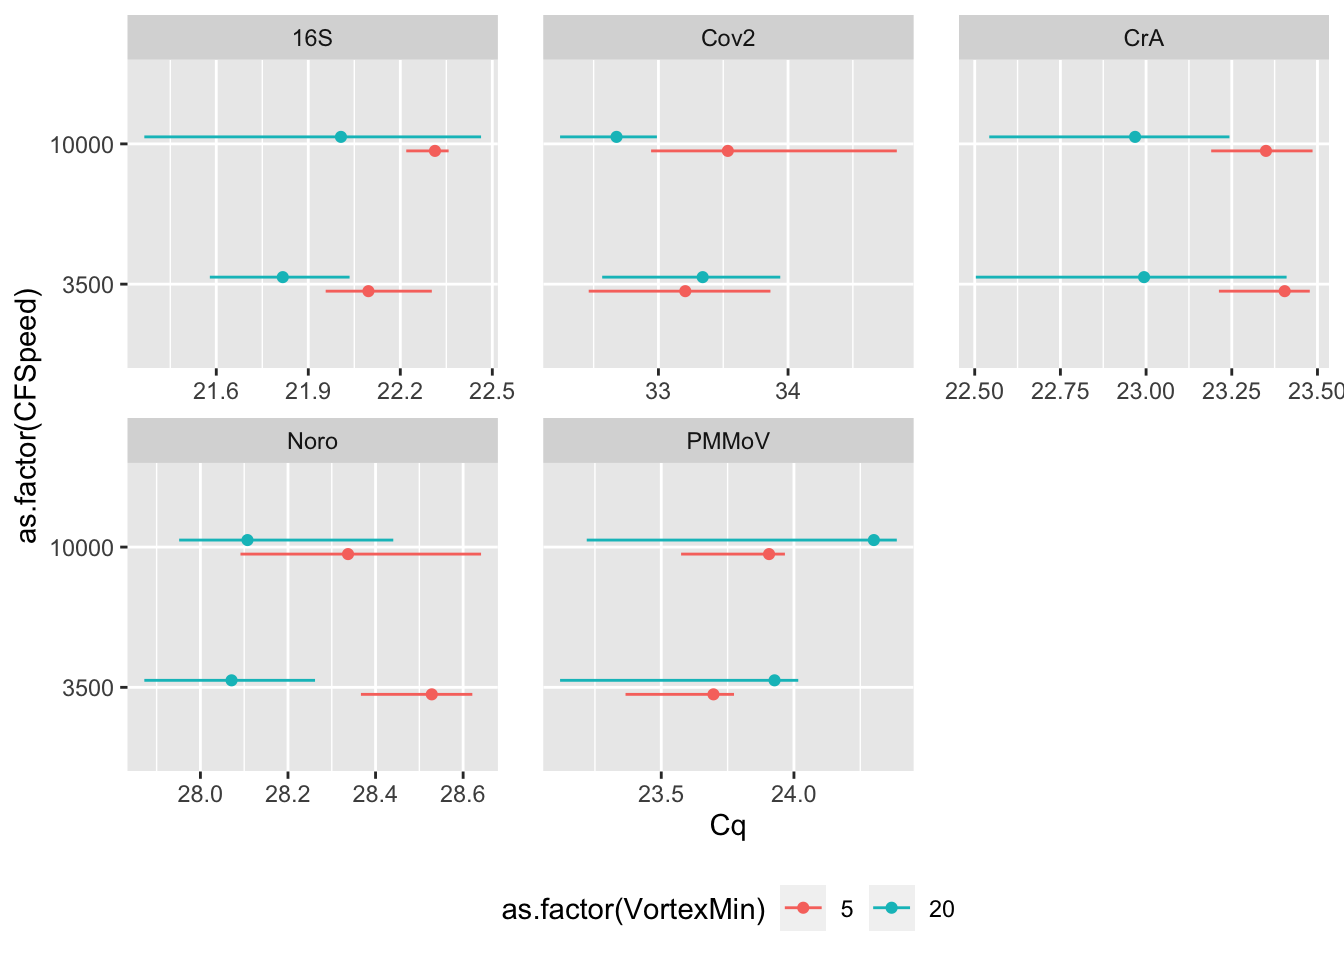
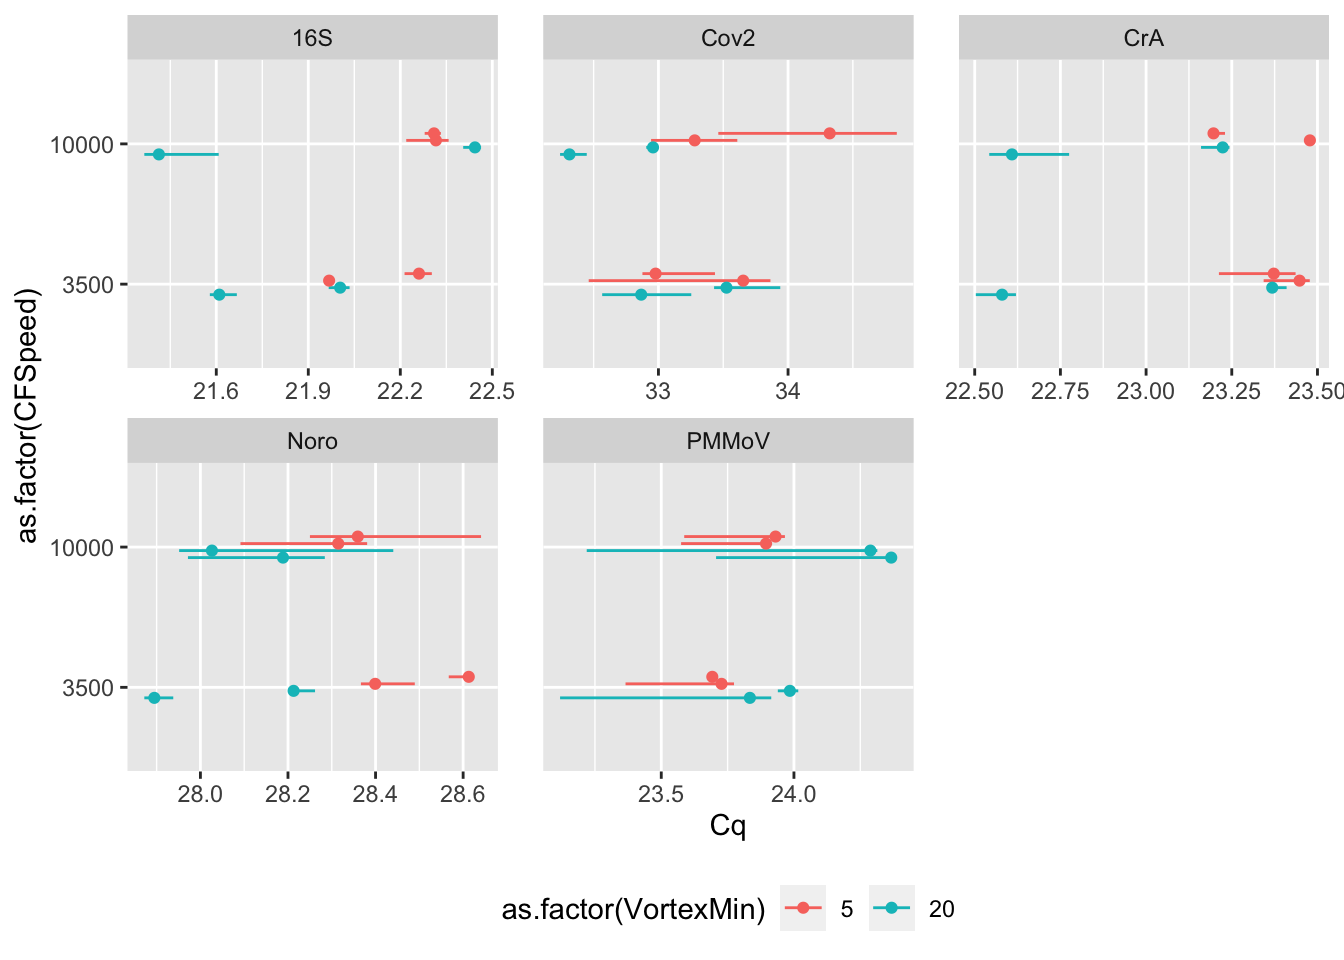
Lint notebook

diff --git a/docs/notebooks/2023-10-16-combined_protocol_experiments.html b/docs/notebooks/2023-10-16-combined_protocol_experiments.html
@@ -7,9 +7,9 @@
 <meta name="viewport" content="width=device-width, initial-scale=1.0, user-scalable=yes">
 
 <meta name="author" content="Dan Rice">
-<meta name="dcterms.date" content="2024-04-11">
+<meta name="dcterms.date" content="2023-10-16">
 
-<title>TK</title>
+<title>2023-10-16 Analysis of recent protocol-comparison experiments</title>
 <style>
 code{white-space: pre-wrap;}
 span.smallcaps{font-variant: small-caps;}
@@ -142,7 +142,7 @@ pre > code.sourceCode > span > a:first-child::before { text-decoration: underlin
 
 <header id="title-block-header" class="quarto-title-block default">
 <div class="quarto-title">
-<h1 class="title">TK</h1>
+<h1 class="title">2023-10-16 Analysis of recent protocol-comparison experiments</h1>
 </div>
 
 
@@ -159,7 +159,7 @@ pre > code.sourceCode > span > a:first-child::before { text-decoration: underlin
     <div>
     <div class="quarto-title-meta-heading">Published</div>
     <div class="quarto-title-meta-contents">
-      <p class="date">April 11, 2024</p>
+      <p class="date">October 16, 2023</p>
     </div>
   </div>
   
@@ -171,7 +171,7 @@ pre > code.sourceCode > span > a:first-child::before { text-decoration: underlin
 
 <section id="objectives" class="level2">
 <h2 class="anchored" data-anchor-id="objectives">Objectives</h2>
-<p>TK</p>
+<p>See <a href="https://twist.com/a/197793/ch/591292/t/5631080/">Twist</a></p>
 </section>
 <section id="preliminary-work" class="level2">
 <h2 class="anchored" data-anchor-id="preliminary-work">Preliminary work</h2>
@@ -217,10 +217,13 @@ Attaching package: 'dplyr'</code></pre>
 <div class="cell">
 <div class="sourceCode cell-code" id="cb9"><pre class="sourceCode r code-with-copy"><code class="sourceCode r"><span id="cb9-1"><a href="#cb9-1" aria-hidden="true" tabindex="-1"></a>data_dir <span class="ot">&lt;-</span> <span class="fu">here</span>(<span class="st">"~"</span>, <span class="st">"airport"</span>)</span>
 <span id="cb9-2"><a href="#cb9-2" aria-hidden="true" tabindex="-1"></a>experiments <span class="ot">&lt;-</span> <span class="fu">c</span>(</span>
-<span id="cb9-3"><a href="#cb9-3" aria-hidden="true" tabindex="-1"></a>  <span class="st">"[2023-10-12] Settled Solids Protocol Development, Vortex Time and Centrifuge Settings"</span>,</span>
-<span id="cb9-4"><a href="#cb9-4" aria-hidden="true" tabindex="-1"></a>  <span class="st">"[2023-10-10] Daily Processing Protocol Testing"</span>,</span>
-<span id="cb9-5"><a href="#cb9-5" aria-hidden="true" tabindex="-1"></a>  <span class="st">"[2023-09-22] New Processing Tests"</span></span>
-<span id="cb9-6"><a href="#cb9-6" aria-hidden="true" tabindex="-1"></a>)</span></code><button title="Copy to Clipboard" class="code-copy-button"><i class="bi"></i></button></pre></div>
+<span id="cb9-3"><a href="#cb9-3" aria-hidden="true" tabindex="-1"></a>  <span class="fu">paste</span>(</span>
+<span id="cb9-4"><a href="#cb9-4" aria-hidden="true" tabindex="-1"></a>    <span class="st">"[2023-10-12] Settled Solids Protocol Development,"</span>,</span>
+<span id="cb9-5"><a href="#cb9-5" aria-hidden="true" tabindex="-1"></a>    <span class="st">"Vortex Time and Centrifuge Settings"</span></span>
+<span id="cb9-6"><a href="#cb9-6" aria-hidden="true" tabindex="-1"></a>  ),</span>
+<span id="cb9-7"><a href="#cb9-7" aria-hidden="true" tabindex="-1"></a>  <span class="st">"[2023-10-10] Daily Processing Protocol Testing"</span>,</span>
+<span id="cb9-8"><a href="#cb9-8" aria-hidden="true" tabindex="-1"></a>  <span class="st">"[2023-09-22] New Processing Tests"</span></span>
+<span id="cb9-9"><a href="#cb9-9" aria-hidden="true" tabindex="-1"></a>)</span></code><button title="Copy to Clipboard" class="code-copy-button"><i class="bi"></i></button></pre></div>
 </div>
 <div class="cell">
 <div class="sourceCode cell-code" id="cb10"><pre class="sourceCode r code-with-copy"><code class="sourceCode r"><span id="cb10-1"><a href="#cb10-1" aria-hidden="true" tabindex="-1"></a>filename_pattern <span class="ot">&lt;-</span> <span class="st">"_Results_"</span></span>
@@ -457,8 +460,10 @@ $ qPCR_dilution           &lt;chr&gt; "1:5", "1:5", "1:5", NA, NA, NA, "1:5", "1
 <span id="cb32-16"><a href="#cb32-16" aria-hidden="true" tabindex="-1"></a>  }) <span class="sc">|&gt;</span></span>
 <span id="cb32-17"><a href="#cb32-17" aria-hidden="true" tabindex="-1"></a>  <span class="fu">list_rbind</span>() <span class="sc">|&gt;</span></span>
 <span id="cb32-18"><a href="#cb32-18" aria-hidden="true" tabindex="-1"></a>  <span class="fu">mutate</span>(<span class="at">Target =</span> <span class="fu">if_else</span>(Target <span class="sc">==</span> <span class="st">"PMMV"</span>, <span class="st">"PMMoV"</span>, Target)) <span class="sc">|&gt;</span></span>
-<span id="cb32-19"><a href="#cb32-19" aria-hidden="true" tabindex="-1"></a>  <span class="fu">left_join</span>(tidy_data, <span class="at">by =</span> <span class="fu">join_by</span>(plate, Well, <span class="st">`</span><span class="at">Well Position</span><span class="st">`</span>, Sample, Omit, Target)) <span class="sc">|&gt;</span></span>
-<span id="cb32-20"><a href="#cb32-20" aria-hidden="true" tabindex="-1"></a>  <span class="fu">glimpse</span>()</span></code><button title="Copy to Clipboard" class="code-copy-button"><i class="bi"></i></button></pre></div>
+<span id="cb32-19"><a href="#cb32-19" aria-hidden="true" tabindex="-1"></a>  <span class="fu">left_join</span>(tidy_data,</span>
+<span id="cb32-20"><a href="#cb32-20" aria-hidden="true" tabindex="-1"></a>    <span class="at">by =</span> <span class="fu">join_by</span>(plate, Well, <span class="st">`</span><span class="at">Well Position</span><span class="st">`</span>, Sample, Omit, Target)</span>
+<span id="cb32-21"><a href="#cb32-21" aria-hidden="true" tabindex="-1"></a>  ) <span class="sc">|&gt;</span></span>
+<span id="cb32-22"><a href="#cb32-22" aria-hidden="true" tabindex="-1"></a>  <span class="fu">glimpse</span>()</span></code><button title="Copy to Clipboard" class="code-copy-button"><i class="bi"></i></button></pre></div>
 <div class="cell-output cell-output-stdout">
 <pre><code>[1] "/Users/dan/airport/[2023-09-22] New Processing Tests/qpcr/2023-10-09_Cov2_PMMV_Amplification Data_20231010_125053.csv"                                                         
 [2] "/Users/dan/airport/[2023-09-22] New Processing Tests/qpcr/2023-10-09_CrA_16S_Amplification Data_20231010_125152.csv"                                                           
@@ -778,17 +783,18 @@ $ qPCR_dilution           &lt;chr&gt; NA, NA, NA</code></pre>
 <span id="cb60-4"><a href="#cb60-4" aria-hidden="true" tabindex="-1"></a>    <span class="at">x =</span> Cq,</span>
 <span id="cb60-5"><a href="#cb60-5" aria-hidden="true" tabindex="-1"></a>    <span class="at">y =</span> <span class="fu">as.factor</span>(CFSpeed),</span>
 <span id="cb60-6"><a href="#cb60-6" aria-hidden="true" tabindex="-1"></a>    <span class="at">color =</span> <span class="fu">as.factor</span>(VortexMin),</span>
-<span id="cb60-7"><a href="#cb60-7" aria-hidden="true" tabindex="-1"></a>  )) <span class="sc">+</span></span>
-<span id="cb60-8"><a href="#cb60-8" aria-hidden="true" tabindex="-1"></a>  <span class="fu">stat_summary</span>(</span>
-<span id="cb60-9"><a href="#cb60-9" aria-hidden="true" tabindex="-1"></a>    <span class="at">fun.min =</span> min,</span>
-<span id="cb60-10"><a href="#cb60-10" aria-hidden="true" tabindex="-1"></a>    <span class="at">fun.max =</span> max,</span>
-<span id="cb60-11"><a href="#cb60-11" aria-hidden="true" tabindex="-1"></a>    <span class="at">fun =</span> median,</span>
-<span id="cb60-12"><a href="#cb60-12" aria-hidden="true" tabindex="-1"></a>    <span class="at">position =</span> <span class="fu">position_dodge</span>(<span class="at">width =</span> <span class="fl">0.2</span>),</span>
-<span id="cb60-13"><a href="#cb60-13" aria-hidden="true" tabindex="-1"></a>    <span class="at">size =</span> <span class="fl">0.2</span></span>
-<span id="cb60-14"><a href="#cb60-14" aria-hidden="true" tabindex="-1"></a>  ) <span class="sc">+</span></span>
-<span id="cb60-15"><a href="#cb60-15" aria-hidden="true" tabindex="-1"></a>  <span class="fu">facet_wrap</span>(<span class="at">facets =</span> <span class="sc">~</span>Target, <span class="at">scales =</span> <span class="st">"free_x"</span>) <span class="sc">+</span></span>
-<span id="cb60-16"><a href="#cb60-16" aria-hidden="true" tabindex="-1"></a>  <span class="fu">theme</span>(<span class="at">legend.position =</span> <span class="st">"bottom"</span>) <span class="sc">+</span></span>
-<span id="cb60-17"><a href="#cb60-17" aria-hidden="true" tabindex="-1"></a>  <span class="fu">theme</span>(<span class="at">panel.spacing.x =</span> <span class="fu">unit</span>(<span class="dv">6</span>, <span class="st">"mm"</span>))</span></code><button title="Copy to Clipboard" class="code-copy-button"><i class="bi"></i></button></pre></div>
+<span id="cb60-7"><a href="#cb60-7" aria-hidden="true" tabindex="-1"></a>    <span class="at">group =</span> Sample</span>
+<span id="cb60-8"><a href="#cb60-8" aria-hidden="true" tabindex="-1"></a>  )) <span class="sc">+</span></span>
+<span id="cb60-9"><a href="#cb60-9" aria-hidden="true" tabindex="-1"></a>  <span class="fu">stat_summary</span>(</span>
+<span id="cb60-10"><a href="#cb60-10" aria-hidden="true" tabindex="-1"></a>    <span class="at">fun.min =</span> min,</span>
+<span id="cb60-11"><a href="#cb60-11" aria-hidden="true" tabindex="-1"></a>    <span class="at">fun.max =</span> max,</span>
+<span id="cb60-12"><a href="#cb60-12" aria-hidden="true" tabindex="-1"></a>    <span class="at">fun =</span> median,</span>
+<span id="cb60-13"><a href="#cb60-13" aria-hidden="true" tabindex="-1"></a>    <span class="at">position =</span> <span class="fu">position_dodge</span>(<span class="at">width =</span> <span class="fl">0.2</span>),</span>
+<span id="cb60-14"><a href="#cb60-14" aria-hidden="true" tabindex="-1"></a>    <span class="at">size =</span> <span class="fl">0.2</span></span>
+<span id="cb60-15"><a href="#cb60-15" aria-hidden="true" tabindex="-1"></a>  ) <span class="sc">+</span></span>
+<span id="cb60-16"><a href="#cb60-16" aria-hidden="true" tabindex="-1"></a>  <span class="fu">facet_wrap</span>(<span class="at">facets =</span> <span class="sc">~</span>Target, <span class="at">scales =</span> <span class="st">"free_x"</span>) <span class="sc">+</span></span>
+<span id="cb60-17"><a href="#cb60-17" aria-hidden="true" tabindex="-1"></a>  <span class="fu">theme</span>(<span class="at">legend.position =</span> <span class="st">"bottom"</span>) <span class="sc">+</span></span>
+<span id="cb60-18"><a href="#cb60-18" aria-hidden="true" tabindex="-1"></a>  <span class="fu">theme</span>(<span class="at">panel.spacing.x =</span> <span class="fu">unit</span>(<span class="dv">6</span>, <span class="st">"mm"</span>))</span></code><button title="Copy to Clipboard" class="code-copy-button"><i class="bi"></i></button></pre></div>
 <div class="cell-output cell-output-stderr">
 <pre><code>Warning: Removed 1 rows containing non-finite values (`stat_summary()`).</code></pre>
 </div>
@@ -803,17 +809,18 @@ $ qPCR_dilution           &lt;chr&gt; NA, NA, NA</code></pre>
 <span id="cb62-4"><a href="#cb62-4" aria-hidden="true" tabindex="-1"></a>    <span class="at">x =</span> Cq,</span>
 <span id="cb62-5"><a href="#cb62-5" aria-hidden="true" tabindex="-1"></a>    <span class="at">y =</span> <span class="fu">as.factor</span>(VortexMin),</span>
 <span id="cb62-6"><a href="#cb62-6" aria-hidden="true" tabindex="-1"></a>    <span class="at">color =</span> <span class="fu">as.factor</span>(CFSpeed),</span>
-<span id="cb62-7"><a href="#cb62-7" aria-hidden="true" tabindex="-1"></a>  )) <span class="sc">+</span></span>
-<span id="cb62-8"><a href="#cb62-8" aria-hidden="true" tabindex="-1"></a>  <span class="fu">stat_summary</span>(</span>
-<span id="cb62-9"><a href="#cb62-9" aria-hidden="true" tabindex="-1"></a>    <span class="at">fun.min =</span> min,</span>
-<span id="cb62-10"><a href="#cb62-10" aria-hidden="true" tabindex="-1"></a>    <span class="at">fun.max =</span> max,</span>
-<span id="cb62-11"><a href="#cb62-11" aria-hidden="true" tabindex="-1"></a>    <span class="at">fun =</span> median,</span>
-<span id="cb62-12"><a href="#cb62-12" aria-hidden="true" tabindex="-1"></a>    <span class="at">position =</span> <span class="fu">position_dodge</span>(<span class="at">width =</span> <span class="fl">0.2</span>),</span>
-<span id="cb62-13"><a href="#cb62-13" aria-hidden="true" tabindex="-1"></a>    <span class="at">size =</span> <span class="fl">0.2</span></span>
-<span id="cb62-14"><a href="#cb62-14" aria-hidden="true" tabindex="-1"></a>  ) <span class="sc">+</span></span>
-<span id="cb62-15"><a href="#cb62-15" aria-hidden="true" tabindex="-1"></a>  <span class="fu">facet_wrap</span>(<span class="at">facets =</span> <span class="sc">~</span>Target, <span class="at">scales =</span> <span class="st">"free_x"</span>) <span class="sc">+</span></span>
-<span id="cb62-16"><a href="#cb62-16" aria-hidden="true" tabindex="-1"></a>  <span class="fu">theme</span>(<span class="at">legend.position =</span> <span class="st">"bottom"</span>) <span class="sc">+</span></span>
-<span id="cb62-17"><a href="#cb62-17" aria-hidden="true" tabindex="-1"></a>  <span class="fu">theme</span>(<span class="at">panel.spacing.x =</span> <span class="fu">unit</span>(<span class="dv">6</span>, <span class="st">"mm"</span>))</span></code><button title="Copy to Clipboard" class="code-copy-button"><i class="bi"></i></button></pre></div>
+<span id="cb62-7"><a href="#cb62-7" aria-hidden="true" tabindex="-1"></a>    <span class="at">group =</span> Sample</span>
+<span id="cb62-8"><a href="#cb62-8" aria-hidden="true" tabindex="-1"></a>  )) <span class="sc">+</span></span>
+<span id="cb62-9"><a href="#cb62-9" aria-hidden="true" tabindex="-1"></a>  <span class="fu">stat_summary</span>(</span>
+<span id="cb62-10"><a href="#cb62-10" aria-hidden="true" tabindex="-1"></a>    <span class="at">fun.min =</span> min,</span>
+<span id="cb62-11"><a href="#cb62-11" aria-hidden="true" tabindex="-1"></a>    <span class="at">fun.max =</span> max,</span>
+<span id="cb62-12"><a href="#cb62-12" aria-hidden="true" tabindex="-1"></a>    <span class="at">fun =</span> median,</span>
+<span id="cb62-13"><a href="#cb62-13" aria-hidden="true" tabindex="-1"></a>    <span class="at">position =</span> <span class="fu">position_dodge</span>(<span class="at">width =</span> <span class="fl">0.2</span>),</span>
+<span id="cb62-14"><a href="#cb62-14" aria-hidden="true" tabindex="-1"></a>    <span class="at">size =</span> <span class="fl">0.2</span></span>
+<span id="cb62-15"><a href="#cb62-15" aria-hidden="true" tabindex="-1"></a>  ) <span class="sc">+</span></span>
+<span id="cb62-16"><a href="#cb62-16" aria-hidden="true" tabindex="-1"></a>  <span class="fu">facet_wrap</span>(<span class="at">facets =</span> <span class="sc">~</span>Target, <span class="at">scales =</span> <span class="st">"free_x"</span>) <span class="sc">+</span></span>
+<span id="cb62-17"><a href="#cb62-17" aria-hidden="true" tabindex="-1"></a>  <span class="fu">theme</span>(<span class="at">legend.position =</span> <span class="st">"bottom"</span>) <span class="sc">+</span></span>
+<span id="cb62-18"><a href="#cb62-18" aria-hidden="true" tabindex="-1"></a>  <span class="fu">theme</span>(<span class="at">panel.spacing.x =</span> <span class="fu">unit</span>(<span class="dv">6</span>, <span class="st">"mm"</span>))</span></code><button title="Copy to Clipboard" class="code-copy-button"><i class="bi"></i></button></pre></div>
 <div class="cell-output cell-output-stderr">
 <pre><code>Warning: Removed 1 rows containing non-finite values (`stat_summary()`).</code></pre>
 </div>

diff --git a/docs/index.html b/docs/index.html
@@ -145,27 +145,27 @@ ul.task-list li input[type="checkbox"] {
 
 <div class="quarto-listing quarto-listing-container-default" id="listing-listing">
 <div class="list quarto-listing-default">
-<div class="quarto-post image-right" data-index="0" data-listing-date-sort="1712808000000" data-listing-file-modified-sort="1697483142123" data-listing-date-modified-sort="NaN" data-listing-reading-time-sort="6">
+<div class="quarto-post image-right" data-index="0" data-listing-date-sort="1697428800000" data-listing-file-modified-sort="1697484293184" data-listing-date-modified-sort="NaN" data-listing-reading-time-sort="6">
 <div class="thumbnail">
 <p><a href="./notebooks/2023-10-16-combined_protocol_experiments.html"> <p class="card-img-top"><img src="notebooks/2023-10-16-combined_protocol_experiments_files/figure-html/unnamed-chunk-9-1.png"  class="thumbnail-image card-img"/></p> </a></p>
 </div>
 <div class="body">
 <a href="./notebooks/2023-10-16-combined_protocol_experiments.html">
 <h3 class="no-anchor listing-title">
-TK
+2023-10-16 Analysis of recent protocol-comparison experiments
 </h3>
 <div class="listing-subtitle">
 
 </div>
 <div class="listing-description">
-TK
+See Twist
 </div>
 </a>
 </div>
 <div class="metadata">
 <a href="./notebooks/2023-10-16-combined_protocol_experiments.html">
 <div class="listing-date">
-Apr 11, 2024
+Oct 16, 2023
 </div>
 <div class="listing-author">
 Dan Rice
